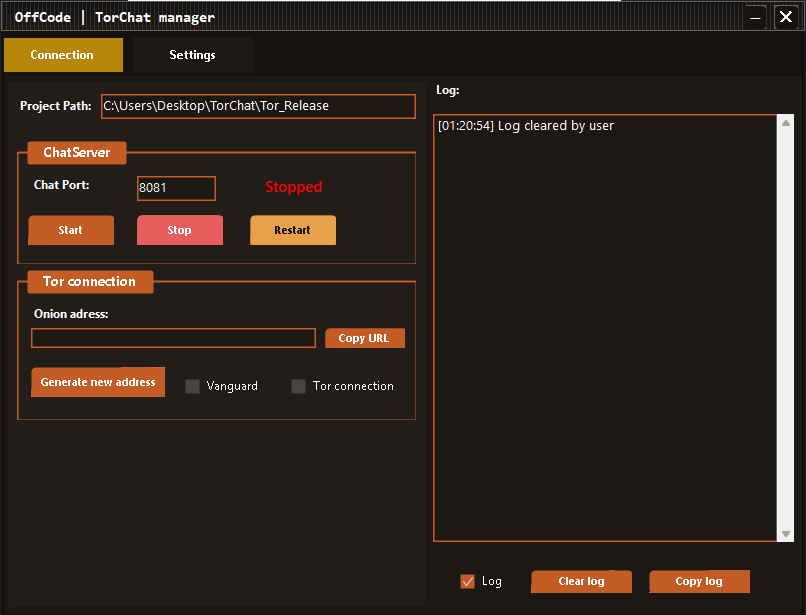
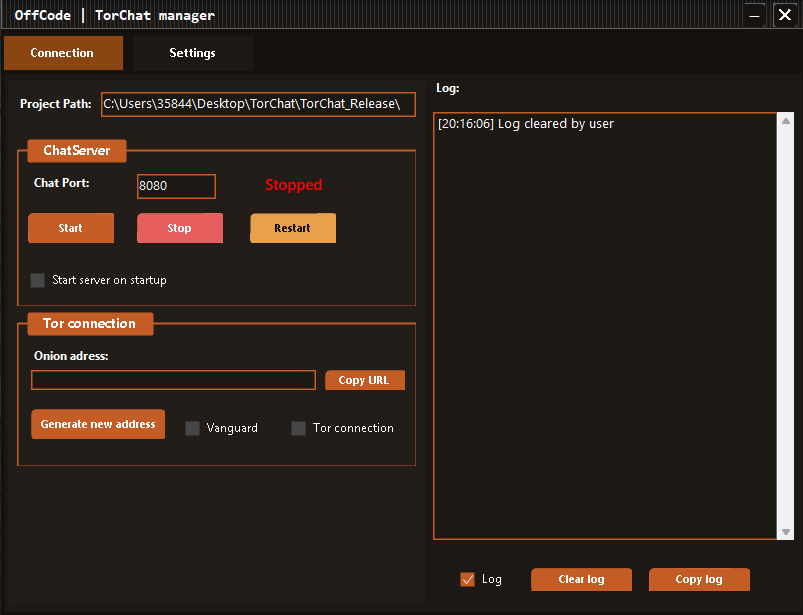
Add files via upload

Changed region(s): [[0.0, 0.0, 1.0, 0.9886], [0.3425, 0.6797, 0.4981, 0.7106], [0.5604, 0.9268, 0.6227, 0.9577]]

diff --git a/TorChatChangelog.html b/TorChatChangelog.html
@@ -7,9 +7,9 @@
 
     <title>OffCode Tor Chat: Changelog &amp; Update History</title>
     <meta name="description"
-        content="OffCode Tor Chat changelog: FileSeal attachments, creator recovery, invite tokens, JoinRoom owner bypass, and Room Settings updates.">
+        content="OffCode Tor Chat changelog: Server Manager rooms, Admin key, onion page speed, safety number, pins, and Hidden Service hardening.">
     <meta name="author" content="OffCrypt">
-    <meta name="last-modified" content="2026-08-13">
+    <meta name="last-modified" content="2026-10-10">
     <meta name="robots" content="noindex, follow">
 
     <meta http-equiv="X-Content-Type-Options" content="nosniff">
@@ -27,7 +27,7 @@
     <link rel="icon" type="image/png" sizes="16x16" href="/favicon-16x16.png">
     <link rel="manifest" href="/manifest.json">
 
-    <link rel="preload" href="styles-automation.css?v=3.0.9" as="style">
+    <link rel="preload" href="styles-automation.css?v=3.1.1" as="style">
 
     <meta name="theme-color" content="#c45c26">
     <meta name="msapplication-TileColor" content="#c45c26">
@@ -37,14 +37,14 @@
     <meta property="og:url" content="https://www.dev-offcode.com/TorChatChangelog.html">
     <meta property="og:title" content="OffCode Tor Chat: Changelog">
     <meta property="og:description"
-        content="Release notes for OffCode Tor Chat — FileSeal, recovery, invites, and Room Settings.">
+        content="Release notes for OffCode Tor Chat: Server Manager rooms, Admin key, and Hidden Service hardening.">
     <meta property="og:image" content="https://www.dev-offcode.com/TorChat1.png">
 
     <meta name="twitter:card" content="summary_large_image">
     <meta name="twitter:url" content="https://www.dev-offcode.com/TorChatChangelog.html">
     <meta name="twitter:title" content="OffCode Tor Chat: Changelog">
     <meta name="twitter:description"
-        content="Release notes for OffCode Tor Chat — FileSeal, recovery, invites, and Room Settings.">
+        content="Release notes for OffCode Tor Chat: Server Manager rooms, Admin key, and Hidden Service hardening.">
     <meta name="twitter:image" content="https://www.dev-offcode.com/TorChat1.png">
 
     <script type="application/ld+json">
@@ -60,14 +60,14 @@
         "releaseNotes": {
             "@type": "TechArticle",
             "headline": "OffCode Tor Chat changelog",
-            "dateModified": "2026-08-13",
+            "dateModified": "2026-10-10",
             "url": "https://www.dev-offcode.com/TorChatChangelog.html"
         }
     }
     </script>
 
-    <link rel="stylesheet" href="styles-automation.css?v=3.0.9">
-    <link rel="stylesheet" href="styles-at-extras.css?v=3.0.9">
+    <link rel="stylesheet" href="styles-automation.css?v=3.1.1">
+    <link rel="stylesheet" href="styles-at-extras.css?v=3.1.5">
 </head>
 
 <body class="at-page">
@@ -124,6 +124,12 @@
                             <a href="TorChatPage.html" class="menu-link">
                                 <span class="menu-icon at-icon at-icon--layers" aria-hidden="true"></span>
                                 <span class="menu-text">Tor Chat</span>
+                            </a>
+                        </li>
+                                                <li class="menu-item">
+                            <a href="Community.html" class="menu-link">
+                                <span class="menu-icon at-icon at-icon--message" aria-hidden="true"></span>
+                                <span class="menu-text">Community</span>
                             </a>
                         </li>
                         <li class="menu-item">
@@ -208,9 +214,38 @@
                     <div class="changelog-intro">
                         <p>Release notes for <strong>OffCode Tor Chat</strong>: self-hosted Tor Hidden Service chat,
                             browser WebCrypto AES-GCM, SignalR relay, SQLCipher, and Server Manager.</p>
-                        <p><strong>Latest:</strong> VER 0.1 (2026-08-12): Max members and announcement / read-only Room Settings.</p>
+                        <p><strong>Latest:</strong> 10 October 2026: Server Manager public rooms, Admin key, website create limits, faster onion page, and extra Tor hardening.</p>
                     </div>
 
+
+                        <div class="changelog-entry">
+                            <div class="changelog-version">
+                                <span class="version-tag">VER: 0.1.2</span>
+                                <span class="version-date">10/10/2026</span>
+                            </div>
+                            <div class="changelog-changes">
+                                <h3>Changes</h3>
+                                <ul>
+                                    <li><strong>Create rooms in Server Manager:</strong> Use Create room with a name only. That adds an open public room. You own it with the Admin key (paste into Profile Restore on the onion site). Remove selected room still works as before.</li>
+                                    <li><strong>Admin key:</strong> Server Manager keeps one recovery code for rooms you create there. It is the same kind of code as Profile on the site. Copy it, then Restore in Tor Browser. The <strong>i</strong> button next to the key explains this. The key is not stored in config.ini. Wiping SQL data does not delete it.</li>
+                                    <li><strong>Limit website room creation:</strong> Maximum Number of Rooms caps how many public rooms people can create from the onion page. Disable Room Creation blocks all website creates immediately. You can still create rooms from Server Manager.</li>
+                                    <li><strong>Save and Windows startup:</strong> Save stores ports, Tor, room limits, and Start server on startup. If that box is on, Save also starts Server Manager at Windows logon. ChatServer (and Tor if you saved it on) then start without extra dialogs. Uncheck and Save to turn logon start off.</li>
+                                    <li><strong>Faster onion page:</strong> Fewer fonts and a smaller download. The chat page should load quicker over Tor. Still no CDN.</li>
+                                    <li><strong>Locked 1:1 after reload:</strong> Messages from a previous join in a locked two-person room show as a previous-session note. They do not decrypt with the room password. Encryption itself is unchanged.</li>
+                                    <li><strong>Leave a room:</strong> Leaving or being removed clears the chat on screen (messages, draft, safety number, images). You are not logged out. Recovery codes in the browser stay.</li>
+                                    <li><strong>Safety number:</strong> Locked 1:1 now shows eight groups of five digits. Both people need this update. Compare the numbers in person or in another app.</li>
+                                    <li><strong>Tor flood protection:</strong> The Hidden Service can slow down floods (intro DoS and Proof-of-Work) when it is under load. Needs Tor 0.4.8 or newer (this bundle is). Docker uses the same settings.</li>
+                                    <li><strong>Admin tools stay off Tor:</strong> Server Manager talks to ChatServer on a private local port. Visitors on the .onion cannot see health or room-admin tools.</li>
+                                    <li><strong>Harder to fingerprint the host:</strong> Time in headers is rounded, and build timestamps are not sent with the page. CSS and fonts still cache so the page stays reasonably fast.</li>
+                                    <li><strong>Invite guessing:</strong> Invite lookups are limited across the whole server, so spinning new Tor circuits cannot hammer invites as cheaply.</li>
+                                    <li><strong>Hidden and closed rooms:</strong> A failed join takes a similar amount of time whether the room exists or not, so timing does not give that away.</li>
+                                    <li><strong>Official Tor files:</strong> Server Manager checks bundled Tor against a known hash. If it does not match, Tor does not start. It does not download a replacement.</li>
+                                    <li><strong>Message times:</strong> Times are rounded to the minute. Rejected messages all say the same thing, so the error text does not explain why.</li>
+                                    <li><strong>Where the chat runs:</strong> The UI only opens on localhost or a real Tor v3 .onion address, and only if the browser can do Web Crypto. Otherwise it stays blocked.</li>
+                                    <li><strong>Pinned message:</strong> The room creator can pin one message. Everyone sees that pin; the server does not learn the text. The pin expires with the message.</li>
+                                </ul>
+                            </div>
+                        </div>
 
                         <div class="changelog-entry">
                             <div class="changelog-version">
@@ -260,7 +295,7 @@
         </main>
     </div>
 
-    <script src="script.js" defer></script>
+    <script src="script.js?v=3.1.0" defer></script>
     <link rel="stylesheet" href="cookie-consent.css">
     <script src="cookie-consent.js" defer></script>
 </body>
